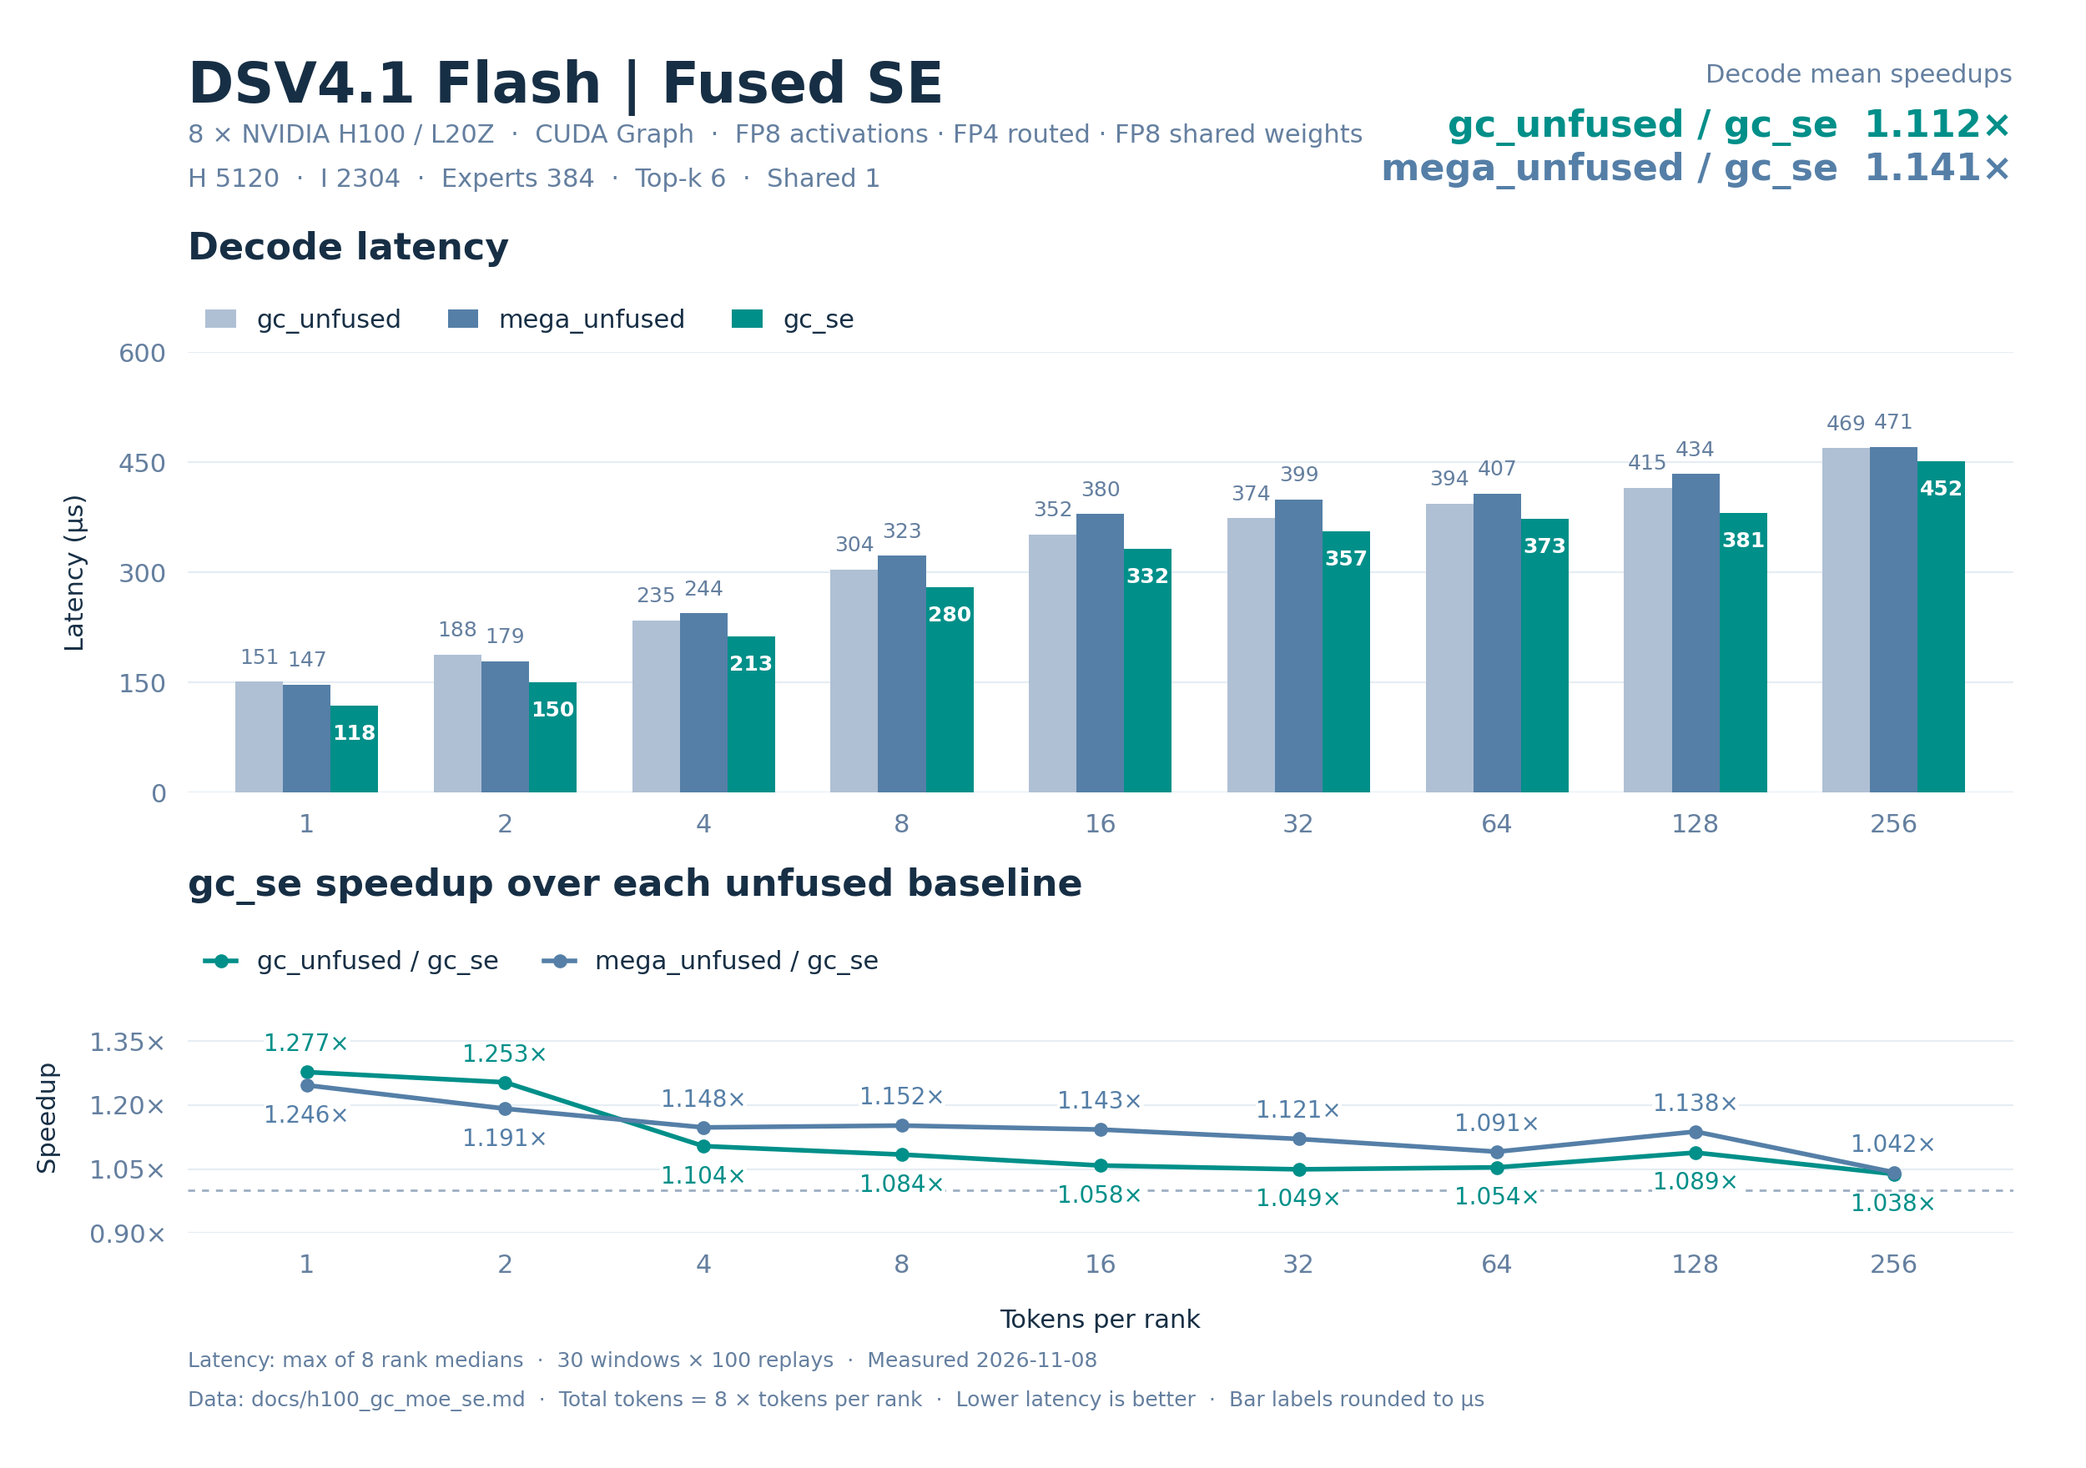
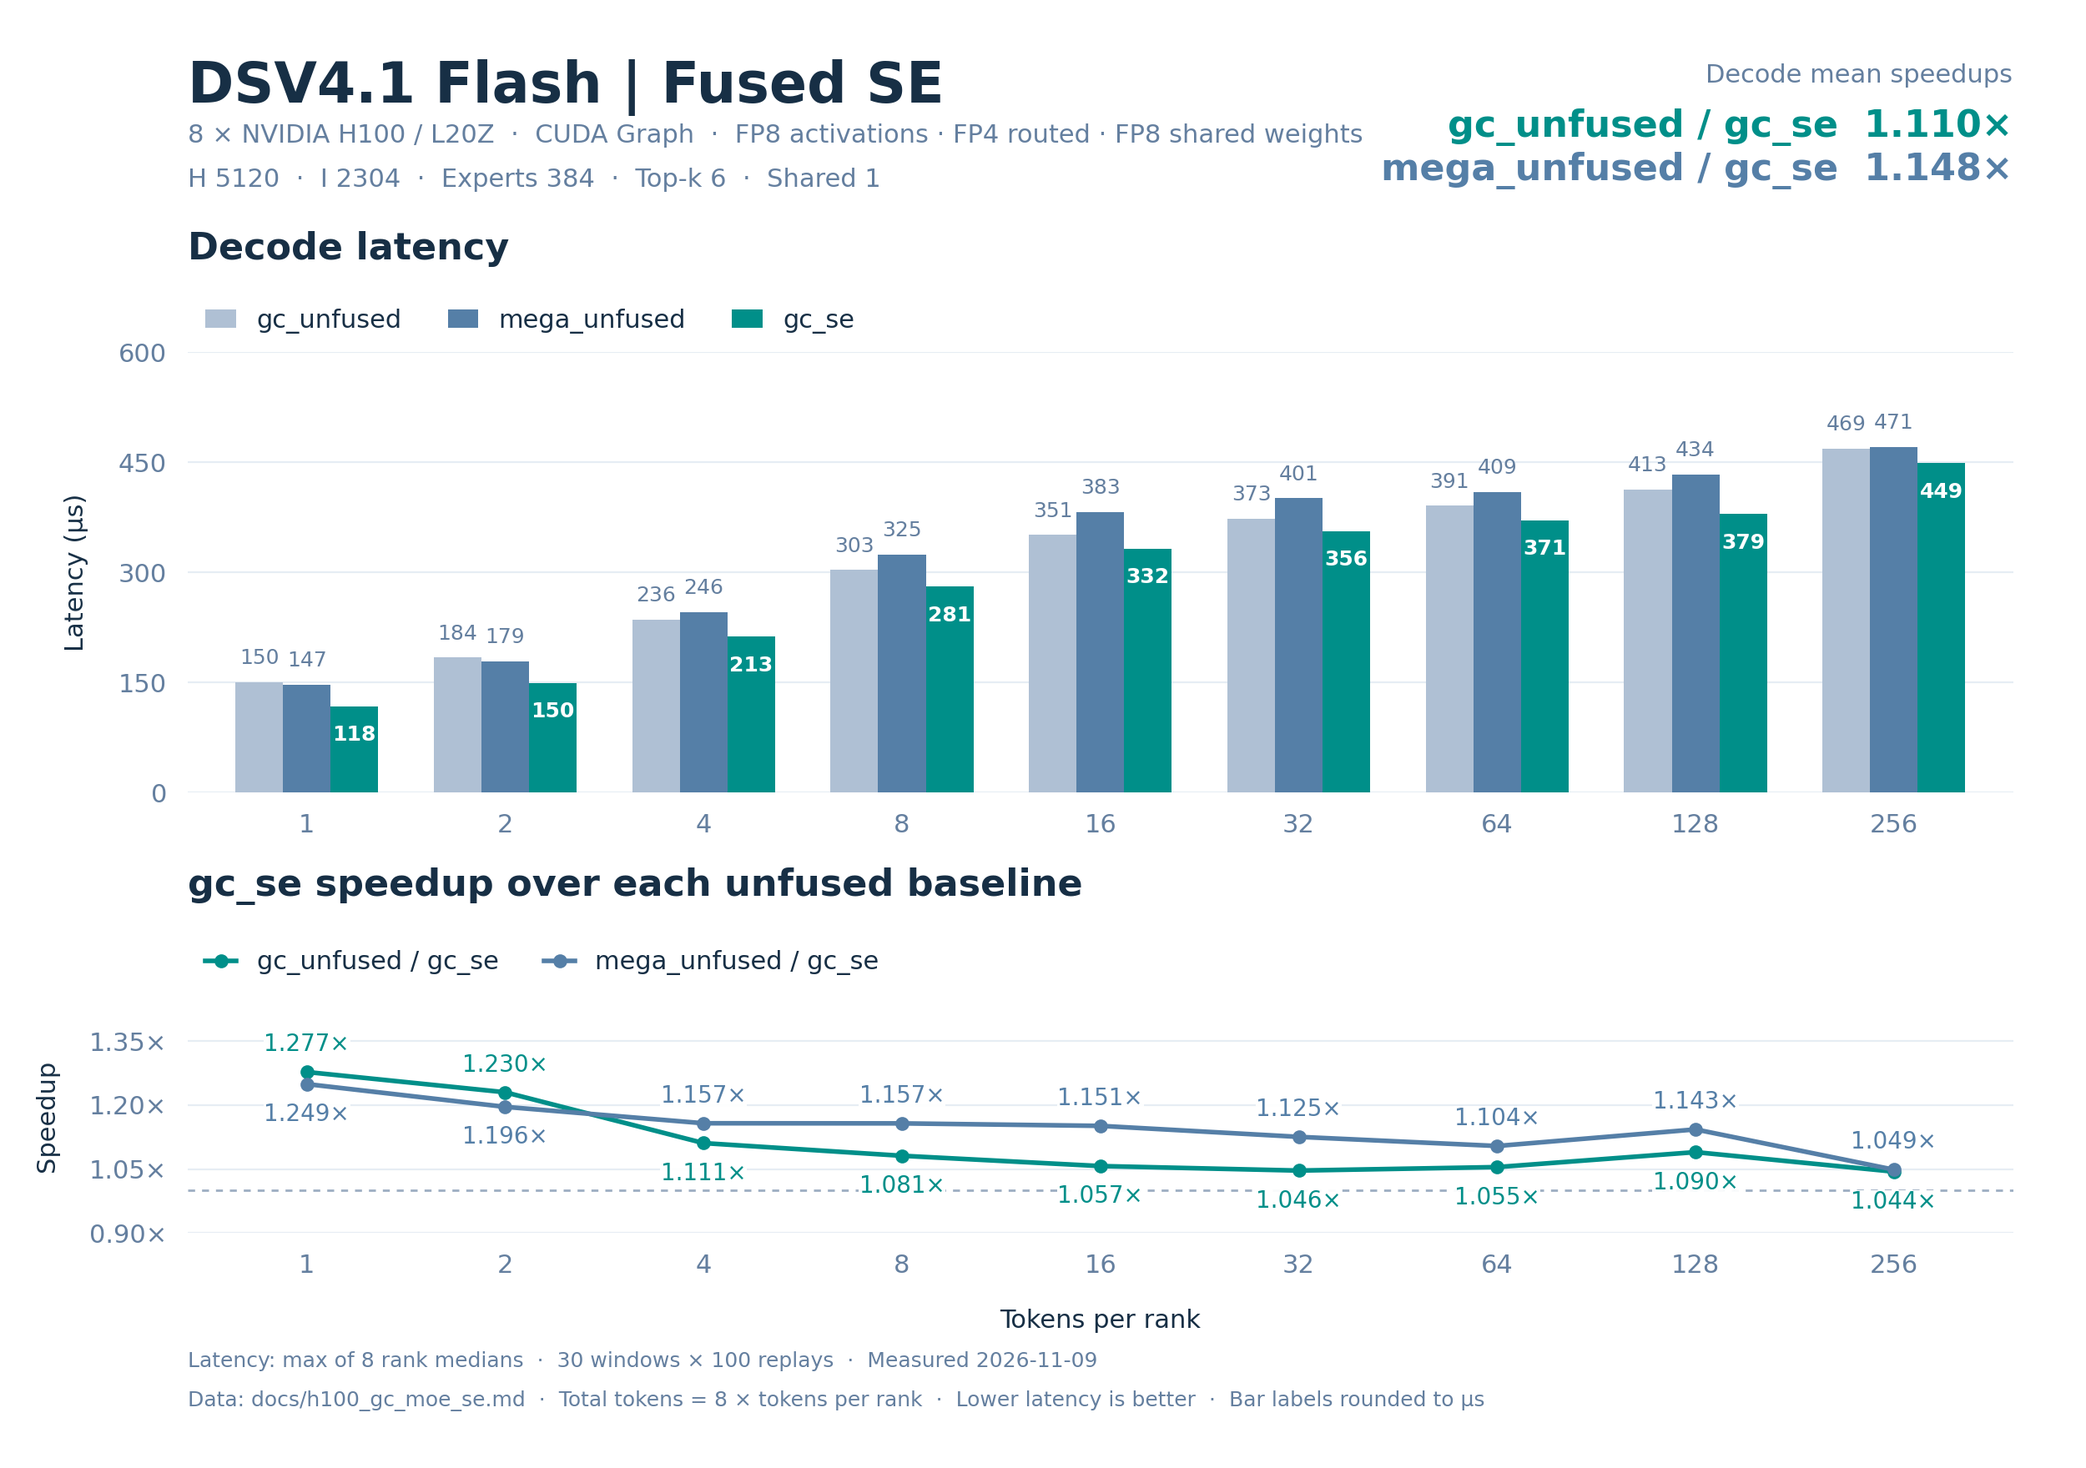
perf(sm90): reuse combine metadata across output pairs

diff --git a/gc_moe/impls/sm90_fp8_fp4_gc_moe.py b/gc_moe/impls/sm90_fp8_fp4_gc_moe.py
@@ -115,6 +115,8 @@ class SM90GCMoERoleKernel:
         self.shared_cache_hint = (EVICT_NORMAL if role in (4, 5) and schedule.shared_cache_normal
                                   else EVICT_FIRST)
         self.selected_combine = role == 3 and schedule.selected_combine
+        self.combine_vector = (16 if role == 3 and schedule.policy == 'pipelined'
+                               and self.hidden % 512 == 0 else 8)
         if self.selected_combine and (self.hidden % 256 or not 1 <= self.topk <= 32):
             raise ValueError('selected combine requires warp-uniform rows and topk in [1, 32]')
         self.shared_i = config.intermediate * config.shared_experts
@@ -1347,10 +1349,11 @@ class SM90GCMoERoleKernel:
                 if math_tid < self.ranks:
                     wait_epoch(self._field(base, 'compute_ready', Uint32) + math_tid, epoch, True)
                 sync_math()
-            for index in cutlass.range(block * 256 + math_tid, tokens * (self.hidden // 8), self.grid * 256):
-                token, col = index // (self.hidden // 8), (index % (self.hidden // 8)) * 8
+            for index in cutlass.range(block * 256 + math_tid, tokens * (self.hidden // self.combine_vector), self.grid * 256):
+                token = index // (self.hidden // self.combine_vector)
+                col = (index % (self.hidden // self.combine_vector)) * self.combine_vector
                 if cutlass.const_expr(self.selected_combine):
-                    # H/8 and both index strides are multiples of 32.
+                    # The row-vector count and both strides are multiples of 32.
                     # Every participating warp is complete and has one token.
                     lane = math_tid % 32
                     valid_owner = Boolean(False)
@@ -1365,20 +1368,24 @@ class SM90GCMoERoleKernel:
                         if valid_owner and not peer_ready:
                             peer_ready = ld_acquire_sys_u32(self._field(base, 'compute_ready', Uint32) + owner) == epoch
                     cute.arch.sync_warp()
-                total = cute.make_rmem_tensor((8,), Float32)
+                total = cute.make_rmem_tensor((self.combine_vector,), Float32)
                 total.fill(Float32(0))
                 for slot in cutlass.range_constexpr(self.topk):
                     expert = cell(base, Uint64(self.off_topk_idx) + Uint64(token * self.topk + slot) * 8, Int64)[0]
                     if expert >= 0:
                         address = base + Uint64(self.off_combine) + (Uint64(token * self.topk + slot) * self.hidden + col) * 2
-                        values8 = load_bf16_8(address)
-                        for i in cutlass.range_constexpr(8):
-                            total[i] += values8[i]
+                        for part in cutlass.range_constexpr(self.combine_vector // 8):
+                            values8 = load_bf16_8(address + Uint64(part * 16))
+                            for i in cutlass.range_constexpr(8):
+                                total[part * 8 + i] += values8[i]
                 if cutlass.const_expr(self.shared_experts > 0):
-                    shared = load_bf16_8(base + Uint64(self.off_shared_y) + Uint64(index) * 16)
-                    for i in cutlass.range_constexpr(8):
-                        total[i] = round_bf16_f32(total[i]) + shared[i]
-                store_bf16_8(Uint64(y.toint()) + Uint64(index) * 16, tuple(total[i] for i in range(8)))
+                    for part in cutlass.range_constexpr(self.combine_vector // 8):
+                        shared = load_bf16_8(base + Uint64(self.off_shared_y) + Uint64(index) * (self.combine_vector * 2) + Uint64(part * 16))
+                        for i in cutlass.range_constexpr(8):
+                            total[part * 8 + i] = round_bf16_f32(total[part * 8 + i]) + shared[i]
+                for part in cutlass.range_constexpr(self.combine_vector // 8):
+                    store_bf16_8(Uint64(y.toint()) + Uint64(index) * (self.combine_vector * 2) + Uint64(part * 16),
+                                 tuple(total[part * 8 + i] for i in range(8)))
             fence_sys()
             sync_math()
             if math_tid == 0:

diff --git a/gc_moe/jit_kernels/heuristics/sm90_gc_moe.py b/gc_moe/jit_kernels/heuristics/sm90_gc_moe.py
@@ -66,7 +66,9 @@ def _get_sm90_role_config(config, dispatch_sms: int, compute_sms: int, policy: s
         compute_smem = 53376
     direct_scan = 0 < config.bound <= 2
     combine_bound = config.bound or config.capacity
-    combine_grid = min(compute_sms * 4, max(1, (combine_bound * config.hidden + 2047) // 2048))
+    combine_vector = 16 if high_sm and config.hidden % 512 == 0 else 8
+    combine_elements = 256 * combine_vector
+    combine_grid = min(compute_sms * 4, max(1, (combine_bound * config.hidden + combine_elements - 1) // combine_elements))
     if high_sm and pipelined and tile_m >= 16:
         combine_grid = min(combine_grid, compute_sms * 2)
     compute_grid = compute_sms * workers

diff --git a/gc_moe/__init__.py b/gc_moe/__init__.py
@@ -27,4 +27,4 @@ __all__ = [
     'transform_weights_for_gc_moe',
 ]
 
-__version__ = '0.5.0'
+__version__ = '0.5.1'

diff --git a/docs/h100_gc_moe.md b/docs/h100_gc_moe.md
@@ -1,6 +1,6 @@
 # H100 / L20Z DSV4.1-Flash Routed experts 精度与性能
 
-8 卡 **47/47 精度用例通过**（376 rank-case）；GC/BF16 最小 cosine **0.977384567**、GC 最大 processed diff **1.36215387e-05**。GC 相对 Mega 的九点 decode 平均加速 **1.051419×**，7/9 点更快。
+8 卡 **47/47 精度用例通过**（376 rank-case）；GC/BF16 最小 cosine **0.977384567**、GC 最大 processed diff **1.36215387e-05**。GC 相对 Mega 的九点 decode 平均加速 **1.054416×**，8/9 点更快。
 
 ![8 卡 H100 的延迟与逐点加速](h100_dsv41_flash_gc_moe.png)
 
@@ -17,9 +17,9 @@
 | Shared experts | 0 |
 | 数值格式 | Routed 输入 E4M3 FP8 / K128 FP32 scale；权重 FP4 E2M1 / K32 二次幂 scale，Humming 布局使用 8-bit 相对指数与 FP32 secondary scale；输出 BF16 |
 | 激活 | SwiGLU；alpha=1，clamp=10，fast_math=True |
-| 软件 | Python 3.12.3；PyTorch 2.11.0+cu130；DeepGEMM 2.8.2；GC MoE 0.4.2；CUTLASS DSL 4.8.1 |
+| 软件 | Python 3.12.3；PyTorch 2.11.0+cu130；DeepGEMM 2.8.2；GC MoE 0.5.1；CUTLASS DSL 4.8.1 |
 | CUDA | PyTorch CUDA 13.0；nvcc 13.2.51；CUDA Python/bindings 13.2.0；驱动 580.105.08 |
-| 数据日期 | 2026-11-08 |
+| 数据日期 | 2026-11-09 |
 
 Decode 点为每 rank 1、2、4、8、16、32、64、128、256 tokens。延迟来自 CUDA Graph replay：10 个预热窗口、30 个计时窗口，每窗口 100 次调用，窗口间刷新 L2。单次延迟先在每个 rank 上取 30 个窗口的中位数，再取 8 个 rank 中的最大值，单位 µs。输入准备和权重转换不计入算子延迟。
 
@@ -30,15 +30,15 @@ Green Context：每卡 4 个 dispatch SM、128 个 compute SM。
 
 | Tokens/rank | Total tokens | Mega (µs) | GC (µs) | Mega/GC |
 | --- | --- | --- | --- | --- |
-| 1 | 8 | 109.463677 | 109.640961 | 0.998383× |
-| 2 | 16 | 145.575843 | 146.809916 | 0.991594× |
-| 4 | 32 | 204.193125 | 193.164959 | 1.057092× |
-| 8 | 64 | 288.528633 | 265.307045 | 1.087527× |
-| 16 | 128 | 346.923046 | 314.886723 | 1.101739× |
-| 32 | 256 | 368.221436 | 336.323357 | 1.094843× |
-| 64 | 512 | 376.662712 | 353.461761 | 1.065639× |
-| 128 | 1024 | 393.330231 | 373.031673 | 1.054415× |
-| 256 | 2048 | 423.783035 | 418.950577 | 1.011535× |
+| 1 | 8 | 109.986076 | 109.303517 | 1.006245× |
+| 2 | 16 | 145.884161 | 146.541920 | 0.995511× |
+| 4 | 32 | 204.883833 | 192.531033 | 1.064160× |
+| 8 | 64 | 288.813286 | 264.973917 | 1.089969× |
+| 16 | 128 | 347.329445 | 315.142555 | 1.102134× |
+| 32 | 256 | 366.764011 | 336.573601 | 1.089699× |
+| 64 | 512 | 376.552334 | 352.768803 | 1.067420× |
+| 128 | 1024 | 393.749599 | 370.221920 | 1.063550× |
+| 256 | 2048 | 423.331203 | 418.701591 | 1.011057× |
 
 ## 模型估算的有效吞吐
 
@@ -54,43 +54,43 @@ NVLink 分子是远程 routed assignment 的单向有用载荷：每个 assignme
 
 | Tokens/rank | Total tokens | Mega (GB/s) | GC (GB/s) |
 | --- | --- | --- | --- |
-| 1 | 8 | 8244.114627 | 8230.784356 |
-| 2 | 16 | 11364.914614 | 11269.381957 |
-| 4 | 32 | 14087.149835 | 14891.412809 |
-| 8 | 64 | 16355.266363 | 17786.797363 |
-| 16 | 128 | 18262.892728 | 20120.944841 |
-| 32 | 256 | 19197.805900 | 21018.592699 |
-| 64 | 512 | 19166.879545 | 20424.978368 |
-| 128 | 1024 | 18354.675711 | 19353.447297 |
-| 256 | 2048 | 17035.719297 | 17232.220773 |
+| 1 | 8 | 8204.957699 | 8256.194548 |
+| 2 | 16 | 11340.895493 | 11289.991473 |
+| 4 | 32 | 14039.658976 | 14940.444175 |
+| 8 | 64 | 16339.146707 | 17809.159110 |
+| 16 | 128 | 18241.523917 | 20104.610662 |
+| 32 | 256 | 19274.092955 | 21002.965271 |
+| 64 | 512 | 19172.497906 | 20465.100026 |
+| 128 | 1024 | 18335.126796 | 19500.327889 |
+| 256 | 2048 | 17053.901940 | 17242.468094 |
 
 ### NVLink 单向有用载荷有效带宽
 
 | Tokens/rank | Total tokens | Mega (GB/s) | GC (GB/s) |
 | --- | --- | --- | --- |
-| 1 | 8 | 5.671288 | 5.662117 |
-| 2 | 16 | 8.635499 | 8.562909 |
-| 4 | 32 | 12.465062 | 13.176717 |
-| 8 | 64 | 17.965912 | 19.538418 |
-| 16 | 128 | 30.017954 | 33.071957 |
-| 32 | 256 | 57.364178 | 62.804797 |
-| 64 | 512 | 110.344238 | 117.587147 |
-| 128 | 1024 | 212.954493 | 224.542434 |
-| 256 | 2048 | 393.142684 | 397.677457 |
+| 1 | 8 | 5.644351 | 5.679598 |
+| 2 | 16 | 8.617248 | 8.578569 |
+| 4 | 32 | 12.423040 | 13.220103 |
+| 8 | 64 | 17.948205 | 19.562982 |
+| 16 | 128 | 29.982831 | 33.045109 |
+| 32 | 256 | 57.592128 | 62.758101 |
+| 64 | 512 | 110.376583 | 117.818128 |
+| 128 | 1024 | 212.727683 | 226.246571 |
+| 256 | 2048 | 393.562295 | 397.913940 |
 
 ### 有效计算吞吐
 
 | Tokens/rank | Total tokens | Mega (TFLOPS) | GC (TFLOPS) |
 | --- | --- | --- | --- |
-| 1 | 8 | 31.036654 | 30.986469 |
-| 2 | 16 | 46.675137 | 46.282790 |
-| 4 | 32 | 66.552412 | 70.352020 |
-| 8 | 64 | 94.198935 | 102.443906 |
-| 16 | 128 | 156.686563 | 172.627729 |
-| 32 | 256 | 295.247232 | 323.249508 |
-| 64 | 512 | 577.261068 | 615.152028 |
-| 128 | 1024 | 1105.598819 | 1165.760094 |
-| 256 | 2048 | 2052.302251 | 2075.974890 |
+| 1 | 8 | 30.889239 | 31.082131 |
+| 2 | 16 | 46.576492 | 46.367432 |
+| 4 | 32 | 66.328049 | 70.583660 |
+| 8 | 64 | 94.106093 | 102.572699 |
+| 16 | 128 | 156.503230 | 172.487590 |
+| 32 | 256 | 296.420467 | 323.009171 |
+| 64 | 512 | 577.430279 | 616.360397 |
+| 128 | 1024 | 1104.421285 | 1174.607486 |
+| 256 | 2048 | 2054.492724 | 2077.209390 |
 
 ### 吞吐模型的分子
 
@@ -116,29 +116,29 @@ Routed 使用两算子字节数一致的变换后 tensor 存储，每个 expert 
 
 | Tokens/rank | rank 0 | rank 1 | rank 2 | rank 3 | rank 4 | rank 5 | rank 6 | rank 7 |
 | --- | --- | --- | --- | --- | --- | --- | --- | --- |
-| 1 | 109.463677 | 109.318399 | 109.414082 | 109.458561 | 109.402237 | 109.436798 | 109.317603 | 109.255838 |
-| 2 | 145.575843 | 145.479517 | 145.537276 | 145.550718 | 145.510721 | 145.519681 | 145.568962 | 145.403042 |
-| 4 | 204.183197 | 204.155369 | 204.181118 | 204.193125 | 204.178076 | 204.169922 | 204.151201 | 204.181280 |
-| 8 | 288.518715 | 288.461924 | 288.528633 | 288.523674 | 288.488483 | 288.499680 | 288.493605 | 288.505116 |
-| 16 | 346.892319 | 346.859035 | 346.904469 | 346.923046 | 346.845131 | 346.865273 | 346.899853 | 346.916485 |
-| 32 | 368.216953 | 368.179989 | 368.221436 | 368.140793 | 368.170071 | 368.174229 | 368.162079 | 368.183041 |
-| 64 | 376.661453 | 376.439362 | 376.662712 | 376.393108 | 376.618080 | 376.505585 | 376.617756 | 376.579361 |
-| 128 | 393.330231 | 393.323669 | 393.268795 | 393.299522 | 393.262882 | 393.268166 | 393.237591 | 393.268471 |
-| 256 | 423.783035 | 423.762074 | 423.755531 | 423.762245 | 423.744488 | 423.734550 | 423.689270 | 423.708801 |
+| 1 | 109.986076 | 109.862719 | 109.861283 | 109.981918 | 109.944797 | 109.980001 | 109.978881 | 109.954720 |
+| 2 | 145.876002 | 145.827999 | 145.776157 | 145.868797 | 145.884161 | 145.840158 | 145.692477 | 145.852318 |
+| 4 | 204.800482 | 204.854555 | 204.879684 | 204.718237 | 204.864006 | 204.829283 | 204.804802 | 204.883833 |
+| 8 | 288.700962 | 288.760157 | 288.735838 | 288.660793 | 288.647833 | 288.813286 | 288.806887 | 288.756638 |
+| 16 | 347.289276 | 347.248631 | 347.329445 | 347.317772 | 347.283363 | 347.268486 | 347.325592 | 347.241917 |
+| 32 | 366.743202 | 366.758556 | 366.764011 | 366.727371 | 366.743526 | 366.738892 | 366.762562 | 366.713428 |
+| 64 | 376.527843 | 376.539993 | 376.552334 | 376.513119 | 376.523533 | 376.542721 | 376.529121 | 376.533279 |
+| 128 | 393.727360 | 393.734550 | 393.696957 | 393.688316 | 393.749599 | 393.664799 | 393.661289 | 393.716965 |
+| 256 | 423.269291 | 423.279362 | 423.274403 | 423.256950 | 423.331203 | 423.301754 | 423.279209 | 423.267841 |
 
 ### GC
 
 | Tokens/rank | rank 0 | rank 1 | rank 2 | rank 3 | rank 4 | rank 5 | rank 6 | rank 7 |
 | --- | --- | --- | --- | --- | --- | --- | --- | --- |
-| 1 | 109.640961 | 109.553757 | 109.522562 | 109.609437 | 109.588637 | 109.569440 | 109.587197 | 109.510880 |
-| 2 | 146.805921 | 146.793761 | 146.719680 | 146.809916 | 146.749439 | 146.775036 | 146.712480 | 146.648002 |
-| 4 | 193.155518 | 193.097124 | 193.164959 | 193.147840 | 193.126402 | 193.112001 | 193.126402 | 193.136158 |
-| 8 | 265.279512 | 265.234079 | 265.307045 | 265.296154 | 265.254402 | 265.210075 | 265.282402 | 265.301123 |
-| 16 | 314.792957 | 314.620485 | 314.886723 | 314.868631 | 314.824963 | 314.809923 | 314.856319 | 314.866238 |
-| 32 | 336.315212 | 336.242561 | 336.323357 | 336.282406 | 336.258717 | 336.223202 | 336.149292 | 336.285915 |
-| 64 | 353.434086 | 353.461761 | 353.365612 | 353.399525 | 353.367043 | 353.394718 | 353.430710 | 353.376808 |
-| 128 | 372.988319 | 373.031673 | 372.874718 | 372.894249 | 372.944317 | 372.923851 | 372.991676 | 372.959042 |
-| 256 | 418.862228 | 418.917770 | 418.896332 | 418.950577 | 418.928642 | 418.920326 | 418.900166 | 418.923988 |
+| 1 | 109.209762 | 109.303517 | 109.211679 | 109.285922 | 109.182401 | 109.243999 | 109.269600 | 109.274879 |
+| 2 | 146.401443 | 146.526561 | 146.511998 | 146.541920 | 146.496959 | 146.522560 | 146.360803 | 146.521759 |
+| 4 | 192.499514 | 192.531033 | 192.506237 | 192.500963 | 192.454872 | 192.509441 | 192.483845 | 192.484322 |
+| 8 | 264.950409 | 264.922886 | 264.950237 | 264.926233 | 264.971685 | 264.973917 | 264.945602 | 264.949121 |
+| 16 | 315.064478 | 315.142555 | 314.923677 | 315.112000 | 315.084162 | 315.101767 | 314.978237 | 315.054398 |
+| 32 | 336.508465 | 336.514721 | 336.563988 | 336.371040 | 336.573601 | 336.503677 | 336.537914 | 336.550388 |
+| 64 | 352.672958 | 352.699680 | 352.768803 | 352.761116 | 352.728176 | 352.687206 | 352.758560 | 352.647190 |
+| 128 | 370.189610 | 370.221920 | 370.177593 | 370.129433 | 370.137444 | 370.156307 | 370.184479 | 370.135193 |
+| 256 | 418.676014 | 418.701591 | 418.699512 | 418.687687 | 418.675041 | 418.690891 | 418.628635 | 418.656483 |
 
 ## 精度
 

diff --git a/README.md b/README.md
@@ -10,7 +10,7 @@ experts (SE), with FP8 activations, packed FP4 routed weights, FP8 shared
 weights and BF16 outputs.
 
 GPU kernels are JIT compiled on first use. Installation builds a Python wheel;
-it does not compile CUDA kernels. The current package version is `0.5.0`.
+it does not compile CUDA kernels. The current package version is `0.5.1`.
 
 ## Performance
 
@@ -147,7 +147,7 @@ assembler compatible with the generated PTX.
 For editable development, use `python -m pip install -e .` instead of installing
 the wheel. Wheel versions include the Git revision for a clean tree, or
 `+local` for a dirty tree or a source copy without Git metadata. Set
-`GC_MOE_USE_LOCAL_VERSION=0` to build the plain `0.5.0` version.
+`GC_MOE_USE_LOCAL_VERSION=0` to build the plain `0.5.1` version.
 
 ## Interfaces
 
